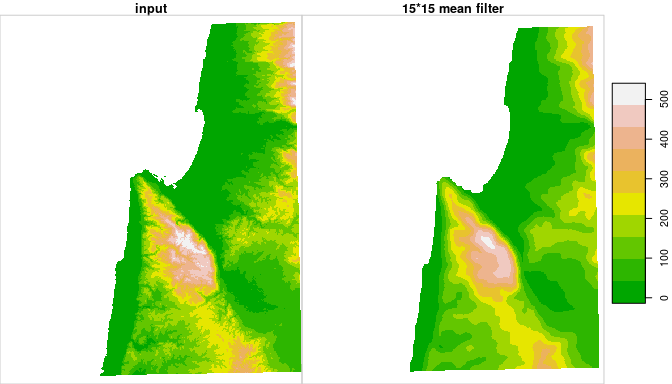
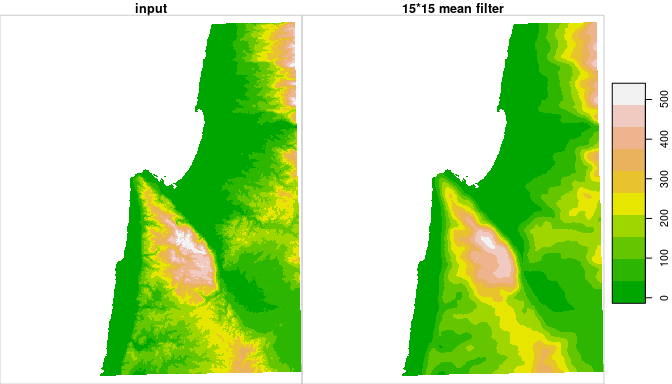
updated readme 3

diff --git a/README.md b/README.md
@@ -47,10 +47,10 @@ The following code applied a 15\*15 mean focal filter on a 533\*627
 
 ``` r
 data(carmel)
-carmel_mean15 = focal2(carmel, matrix(1, 15, 15), "mean")
+carmel_mean15 = focal2(carmel, matrix(1, 15, 15), "mean", na.rm = TRUE, mask = TRUE)
 ```
 
-The calculation takes: 0.1842759 secs.
+The calculation takes: 0.1760368 secs.
 
 The original DEM and the filtered DEM can be combined and plotted with
 the following expressions:
